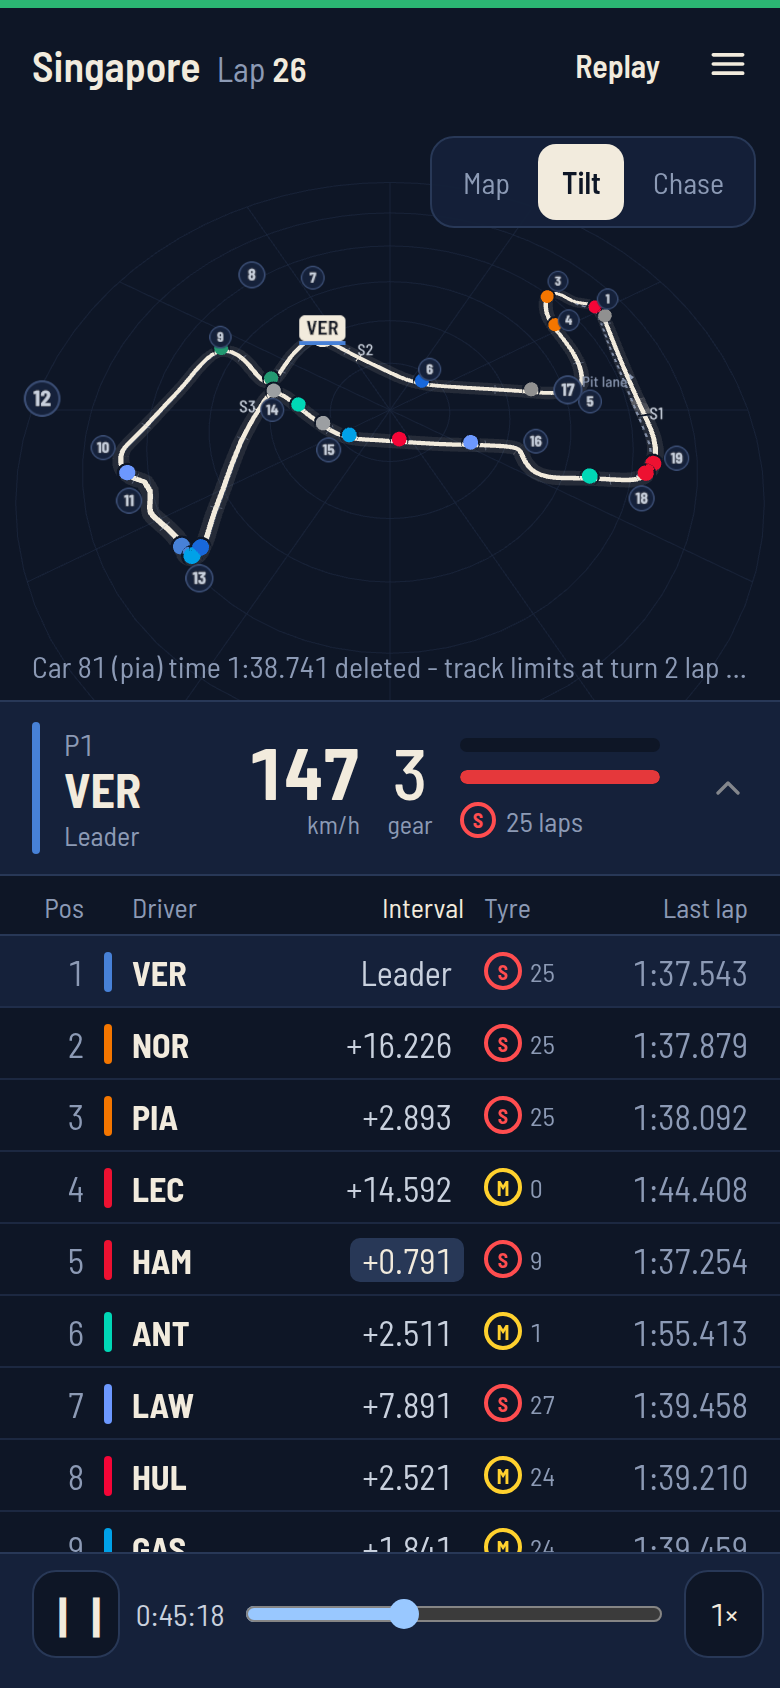
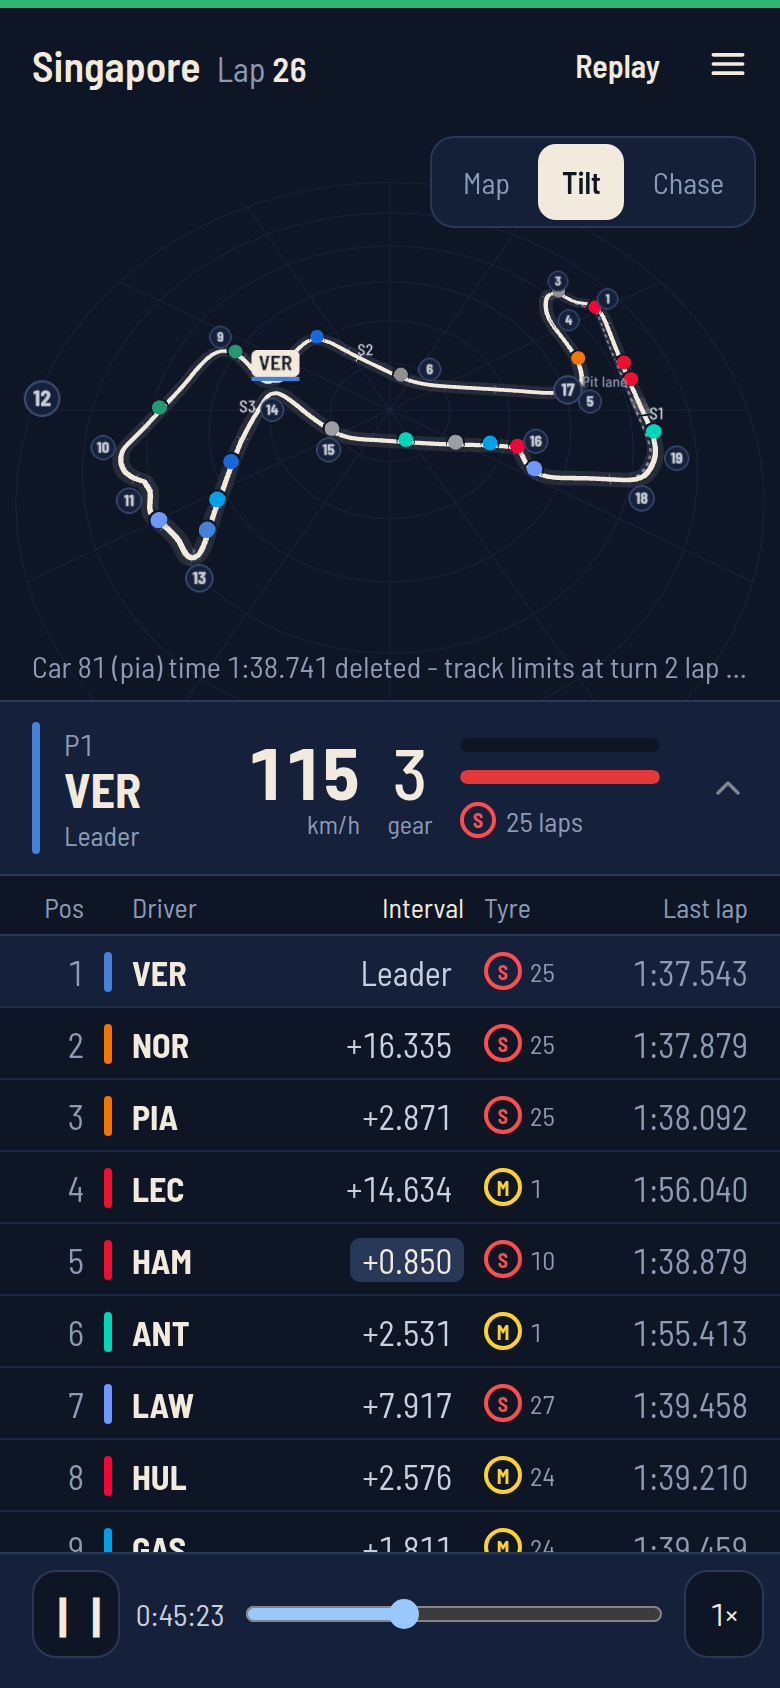
Stop turn badges flying around as the field goes past
Reported from a phone: the turn numbers flit and fly all over the place. I
caused it in the previous commit. Measured at phone size on the Singapore
replay, a badge moved 25.5 world units between two frames — a quarter of the
way across the circuit — and blinked while doing it.

The cause was badges being nudged around car labels every frame. The resolver
is greedy and order-dependent, so two cars drawing level can swap which of
them holds its place, and the answer moves a long way for a tiny input change.
Making the nudge land accurately, which the layout check needed, turned what
had been a half-hearted wobble into a full jump.

Badges now avoid only things that hold still — each other and the camera
group — and fade out of a car label's way instead of dodging it. That suits
what a badge is: shoved off its corner it names nothing, so yielding is the
honest answer. Worst-case badge movement is now 0.00 units at every point
measured.

Three things keep the fade calm rather than flickery:

- Car labels ease into the position the resolver picked instead of snapping to
  it. The resolver's answer may jump; the label must not. Worst label step at
  Singapore falls from 41.08 units to 9.65.
- A badge goes out at once but comes back gently. Going instantly means it
  never actually sits over a label, so the acceptance check stays strict, and
  the abrupt half is the half nobody notices.
- It must then stay clear for 400 ms, and clear by 6 px, before returning.
[…]

diff --git a/apps/web/src/scene/Scene.ts b/apps/web/src/scene/Scene.ts
@@ -44,6 +44,23 @@ export type CameraPreset = 'map' | 'tilt' | 'chase';
  */
 const BADGE_KEY = -1000;
 
+/** How quickly a turn badge fades back in once a car label has passed. */
+const BADGE_FADE_PER_S = 6;
+
+/** How far a hidden badge must be clear before it returns, in pixels. */
+const BADGE_UNBLOCK_PAD = 6;
+
+/** How quickly a car label slides to the position the resolver chose. */
+const LABEL_EASE_PER_S = 10;
+
+/** How long a badge must stay clear before it starts coming back, in ms. */
+const BADGE_RETURN_MS = 400;
+
+/** Whether two screen rectangles meet. */
+function overlaps(a: Obstacle, b: Obstacle): boolean {
+  return a.right > b.left && a.left < b.right && a.bottom > b.top && a.top < b.bottom;
+}
+
 /** How the camera sits for each preset, as a direction and a distance factor. */
 const PRESETS: Record<CameraPreset, { dir: THREE.Vector3; fit: number }> = {
   // Straight down: the whole circuit, no perspective.
@@ -400,7 +417,7 @@ export class Scene {
       if (car.label.visible) setLabelSelected(car, n === sel);
     }
 
-    this.layOutLabels(sel, rows);
+    this.layOutLabels(sel, rows, now, dt);
 
     // Follow, and the chase camera, both track the selected car.
     const target = sel != null ? this.cars.get(sel) : undefined;
@@ -416,35 +433,30 @@ export class Scene {
    * Keeps visible labels off each other. Projecting to screen space is the only
    * way to judge this: two cars far apart in the world can sit on top of each
    * other on screen, and which pairs collide changes as the camera moves.
+   *
+   * Badges and car labels are laid out separately, and deliberately. A badge
+   * marks a corner, and the field streams past every corner continuously, so
+   * nudging badges around moving car labels meant re-deciding their positions
+   * every frame: the resolver is greedy and order-dependent, so a car creeping
+   * a few pixels could flip the order and throw a badge a quarter of the way
+   * across the circuit, then snap it back. Badges therefore avoid only things
+   * that hold still — each other and the camera group — and fade out of the
+   * way of a car label instead of dodging it.
    */
-  private layOutLabels(sel: number | null, rows: readonly { n: number; p: number | null }[]): void {
+  private layOutLabels(
+    sel: number | null,
+    rows: readonly { n: number; p: number | null }[],
+    now: number,
+    dt: number,
+  ): void {
     const r = this.canvas.getBoundingClientRect();
     if (r.width === 0) return;
     const leader = rows.find((row) => row.p === 1)?.n;
+    const obstacles = this.obstacles();
 
+    // Car labels first, as M2 placed them: they hold the positions, and the
+    // selected car holds its place ahead of the leader, ahead of the rest.
     this.labelBoxes.length = 0;
-
-    // Turn badges join the same pass. docs/DESIGN.md asks for them "nudged
-    // clear of car labels", and a car label is the more urgent thing to read,
-    // so badges sort last and move around whatever is already placed.
-    for (let i = 0; i < this.badges.length; i++) {
-      const b = this.badges[i]!;
-      this.projected.copy(b.base).project(this.camera);
-      if (this.projected.z > 1) {
-        b.sprite.visible = false;
-        continue;
-      }
-      b.sprite.visible = true;
-      this.labelBoxes.push({
-        n: BADGE_KEY - i,
-        x: ((this.projected.x + 1) / 2) * r.width,
-        y: ((1 - this.projected.y) / 2) * r.height,
-        width: b.sprite.scale.x / PX,
-        height: b.sprite.scale.y / PX,
-        priority: 3,
-      });
-    }
-
     for (const [n, car] of this.cars) {
       if (!car.label.visible) continue;
       this.projected.copy(car.group.position).add(this.labelOffset).project(this.camera);
@@ -459,70 +471,101 @@ export class Scene {
         y: ((1 - this.projected.y) / 2) * r.height,
         width: car.label.scale.x / PX,
         height: car.label.scale.y / PX,
-        // The selected car holds its place, then the leader, then the rest.
         priority: n === sel ? 0 : n === leader ? 1 : 2,
       });
     }
-
-    const obstacles = this.obstacles();
-    const offsets = resolveCollisions(this.labelBoxes, 2, obstacles);
-    for (const [n, dyPx] of offsets) {
-      if (n <= BADGE_KEY) {
-        const b = this.badges[BADGE_KEY - n];
-        if (!b) continue;
-        b.sprite.position
-          .copy(b.base)
-          .setY(b.base.y + this.worldLiftForScreenOffset(b.base, dyPx, r.height));
-        continue;
-      }
+    // Ease the labels into place rather than snapping. The resolver is greedy
+    // and order-dependent, so two cars drawing level can swap which of them
+    // holds its place and which gives way, and the answer jumps. Measured at
+    // Singapore, a label moved 41 world units between two frames. Easing keeps
+    // the decision while losing the teleport — and since a badge yields to
+    // whatever a label covers, a steady label is what stops badges blinking.
+    const labelOffsets = resolveCollisions(this.labelBoxes, 2, obstacles);
+    const ease = Math.min(1, (dt / 1000) * LABEL_EASE_PER_S);
+    for (const [n, dyPx] of labelOffsets) {
       const car = this.cars.get(n);
       if (!car) continue;
-      // Measured the same way as the badges, so the label lands where the
-      // collision pass put it and the badges that moved around it stay clear.
+      car.labelDy += (dyPx - car.labelDy) * ease;
       const base = car.group.position.clone().setY(car.group.position.y + this.labelBase);
-      car.label.position.set(0, this.labelBase + this.worldLiftForScreenOffset(base, dyPx, r.height), 0);
+      car.label.position.set(0, this.labelBase + this.worldLiftForScreenOffset(base, car.labelDy, r.height), 0);
     }
+    // Where the labels ended up, not where they started: a badge has to clear
+    // the label's resolved position, which is the one the viewer sees.
+    const labelBoxes = this.labelBoxes.map((b) => this.rectAfter(b, this.cars.get(b.n)?.labelDy ?? 0));
 
-    this.hideUnplaceableBadges(obstacles, r.width, r.height);
+    // Badges next, against each other and the camera group only. Nothing in
+    // that set moves unless the camera does, so a badge's position is steady.
+    this.labelBoxes.length = 0;
+    for (let i = 0; i < this.badges.length; i++) {
+      const b = this.badges[i]!;
+      this.projected.copy(b.base).project(this.camera);
+      if (this.projected.z > 1) {
+        b.sprite.visible = false;
+        b.fade = 0;
+        b.clearSince = 0;
+        continue;
+      }
+      this.labelBoxes.push({
+        n: BADGE_KEY - i,
+        x: ((this.projected.x + 1) / 2) * r.width,
+        y: ((1 - this.projected.y) / 2) * r.height,
+        width: b.sprite.scale.x / PX,
+        height: b.sprite.scale.y / PX,
+        priority: 3,
+      });
+    }
+    const badgeOffsets = resolveCollisions(this.labelBoxes, 2, obstacles);
+    const placed = new Map(this.labelBoxes.map((b) => [b.n, b]));
+
+    for (const [n, dyPx] of badgeOffsets) {
+      const b = this.badges[BADGE_KEY - n];
+      const box = placed.get(n);
+      if (!b || !box) continue;
+      b.sprite.position.copy(b.base).setY(b.base.y + this.worldLiftForScreenOffset(b.base, dyPx, r.height));
+
+      // Fade for anything it could not be placed clear of: a car label, which
+      // it is not allowed to dodge, or the camera group when there was nowhere
+      // above it to go. A car label and a camera control are both worth more
+      // than a turn number, and a badge shoved off its corner names nothing.
+      // Hysteresis: a hidden badge has to be clear by a margin before it comes
+      // back, so a car label sliding along its edge cannot toggle it frame by
+      // frame. Without this a badge by the racing line blinks several times a
+      // second as a label creeps past.
+      const pad = b.fade > 0.02 ? 0 : BADGE_UNBLOCK_PAD;
+      const rect = this.rectAfter(box, dyPx, pad);
+      const blocked =
+        labelBoxes.some((l) => overlaps(rect, l)) || obstacles.some((o) => overlaps(rect, o));
+      // Out at once, back in gently. Going instantly means a badge never
+      // actually sits over a car label, and the abrupt half of the change is
+      // the one nobody notices — the car label arriving is the eye's event.
+      // Easing the return is what stops a badge flickering as cars stream by.
+      if (blocked) {
+        b.clearSince = 0;
+        b.fade = 0;
+      } else {
+        // Clear, but not back yet: it has to stay clear for a moment first.
+        // A pack running line astern sweeps labels back and forth across a
+        // badge, and without this the badge answers every one of them.
+        if (b.clearSince === 0) b.clearSince = now;
+        if (now - b.clearSince >= BADGE_RETURN_MS) {
+          b.fade += (1 - b.fade) * Math.min(1, (dt / 1000) * BADGE_FADE_PER_S);
+        }
+      }
+      const material = b.sprite.material as THREE.SpriteMaterial;
+      material.opacity = b.fade;
+      // Fully faded counts as not drawn, so the layout checks agree with the eye.
+      b.sprite.visible = b.fade > 0.02;
+    }
   }
 
-  /**
-   * Drops any turn badge the nudge could not get clear.
-   *
-   * docs/DESIGN.md asks for badges "nudged clear of car labels and controls",
-   * but a badge beside a corner at the edge of the view sometimes has nowhere
-   * to go: the resolver only moves things up the screen, and above this one is
-   * the camera group. Hiding it is the better answer. A car label and a camera
-   * control both matter more than a turn number, and a badge shoved halfway
-   * across the view no longer marks the corner it names. Visibility is decided
-   * afresh every frame, so it comes back as soon as the view moves.
-   */
-  private hideUnplaceableBadges(obstacles: readonly Obstacle[], widthPx: number, heightPx: number): void {
-    const at = new THREE.Vector3();
-    const rectOf = (sprite: THREE.Sprite): Obstacle | null => {
-      sprite.getWorldPosition(at).project(this.camera);
-      if (at.z > 1) return null;
-      const x = ((at.x + 1) / 2) * widthPx;
-      const y = ((1 - at.y) / 2) * heightPx;
-      const w = sprite.scale.x / PX;
-      const h = sprite.scale.y / PX;
-      return { left: x - w / 2, right: x + w / 2, top: y - h / 2, bottom: y + h / 2 };
+  /** A laid-out box as a screen rectangle, once its offset is applied. */
+  private rectAfter(box: LabelBox, dyPx: number, pad = 0): Obstacle {
+    return {
+      left: box.x - box.width / 2 - pad,
+      right: box.x + box.width / 2 + pad,
+      top: box.y - box.height / 2 + dyPx - pad,
+      bottom: box.y + box.height / 2 + dyPx + pad,
     };
-    const hits = (a: Obstacle, b: Obstacle): boolean =>
-      a.right > b.left && a.left < b.right && a.bottom > b.top && a.top < b.bottom;
-
-    const labels: Obstacle[] = [];
-    for (const [, car] of this.cars) {
-      if (!car.label.visible) continue;
-      const box = rectOf(car.label);
-      if (box) labels.push(box);
-    }
-    for (const b of this.badges) {
-      if (!b.sprite.visible) continue;
-      const box = rectOf(b.sprite);
-      if (!box) continue;
-      if (labels.some((l) => hits(box, l)) || obstacles.some((o) => hits(box, o))) b.sprite.visible = false;
-    }
   }
 
   /**

diff --git a/apps/web/src/scene/detail.ts b/apps/web/src/scene/detail.ts
@@ -135,6 +135,10 @@ export interface BadgeSprite {
   base: THREE.Vector3;
   /** The turn it marks, so a failing layout check can name it. */
   number: number;
+  /** Current opacity, eased so a passing car label does not make it blink. */
+  fade: number;
+  /** When it last became unobstructed, or 0 while it is obstructed. */
+  clearSince: number;
 }
 
 /** Turn badges, each pushed out from its apex and clear of the track. */
@@ -151,7 +155,7 @@ export function buildTurnBadges(points: readonly THREE.Vector3[], turns: readonl
     sprite.scale.set(BADGE_PX * PX, BADGE_PX * PX, 1);
     sprite.position.copy(base);
     sprite.renderOrder = 8;
-    out.push({ sprite, base, number: t.number });
+    out.push({ sprite, base, number: t.number, fade: 1, clearSince: 0 });
   }
   return out;
 }

diff --git a/apps/web/src/scene/cars.ts b/apps/web/src/scene/cars.ts
@@ -43,6 +43,12 @@ export interface Car {
   to: THREE.Vector3 | null;
   t0: number;
   stale: boolean;
+  /**
+   * The label's current collision offset in screen pixels, eased towards
+   * whatever the resolver last asked for. Held per car because the resolver's
+   * answer can change abruptly and the label must not.
+   */
+  labelDy: number;
 }
 
 function roundRect(g: CanvasRenderingContext2D, x: number, y: number, w: number, h: number, r: number): void {
@@ -139,6 +145,7 @@ export function makeCar(n: number, code: string, colour: string): Car {
     to: null,
     t0: 0,
     stale: false,
+    labelDy: 0,
   };
 }
 
